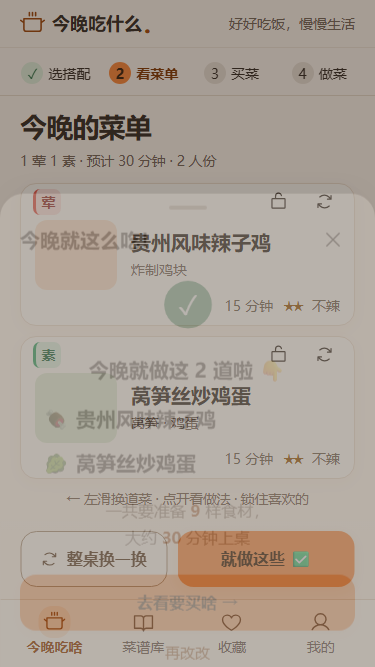
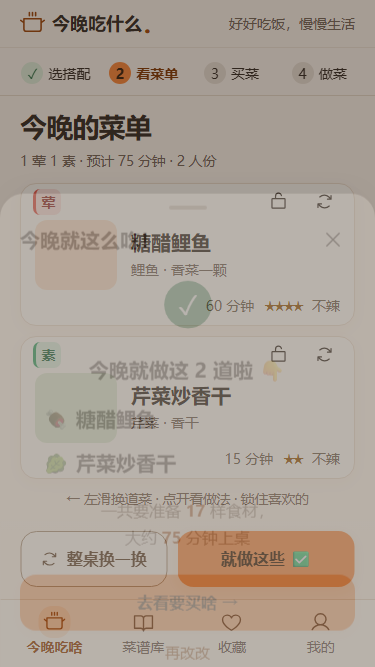
docs: record live deployment and acceptance evidence

diff --git a/docs/ACCEPTANCE.md b/docs/ACCEPTANCE.md
@@ -11,7 +11,7 @@
 | 同桌不重菜、主料多样、遵守忌口 | 通过。200 次随机四道菜单验证无重复菜、无主料冲突、忌口/辣度/黑名单生效；单独验证候选不足和放宽顺序。 |
 | 老乡鸡家庭份量与出处 | 通过。69 道补充库菜谱逐道验证 2 人份、主料合计 250–400g、克数为 5 的倍数。保留原名及供应商、原文链接和单独的家庭替代建议。 |
 | 荤素各至少 30 道真实菜 | 通过。164 道荤菜、92 道素菜；只来自指定两个仓库。134 个未可靠解析或非配菜条目记录跳过原因。 |
-| 无登录打开、添加桌面、离线 | 本地生产包通过。验证 manifest、192/512 图标、standalone 模式、service worker 控制和离线刷新后读取完整菜谱与今日菜单。实际部署状态见 README 的在线地址；手机添加桌面需使用浏览器系统菜单。 |
+| 无登录打开、添加桌面、离线 | 本地与 GitHub Pages 线上生产包通过。验证免登录访问、manifest、192/512 图标、standalone 模式、service worker 控制和离线刷新后读取完整菜谱与今日菜单。手机添加桌面需使用浏览器系统菜单。 |
 
 ## 执行命令
 
@@ -23,6 +23,8 @@ node scripts/check-production.mjs
 ```
 
 规则测试 7 项通过；浏览器端到端测试 4 项通过。生产包额外验证横屏、桌面 480px 限宽、减少动态效果和离线缓存。
+
+线上地址：[https://javaarthur.github.io/c-foods/](https://javaarthur.github.io/c-foods/)。GitHub Actions 已完成安装、测试、构建及部署，线上返回 HTTP 200。对该地址再次执行生产包检查，离线和布局验证通过。生产依赖 `npm audit --omit=dev` 结果为 0 个已知漏洞。
 
 ## 实际页面
 

diff --git a/README.md b/README.md
@@ -2,6 +2,8 @@
 
 给忙碌的家人准备一桌热乎饭：选搭配 → 看菜单 → 买菜 → 做菜。全站简体中文，手机优先，个人数据只存本机，不需要注册或登录。
 
+**在线体验：[今晚吃什么](https://javaarthur.github.io/c-foods/)** · **[GitHub 仓库](https://github.com/JavaArthur/c-foods)**
+
 **技术栈：** Vue 3 Composition API、Vite、Tailwind CSS 4、vue-router hash 路由。没有后端或数据库，没有付费接口。
 
 ## 本地运行
@@ -126,6 +128,8 @@ HowToCook 仅收录 `dishes/meat_dish`、`dishes/aquatic`、`dishes/vegetable_di
 3. 访问 `https://<用户名>.github.io/<仓库名>/`。
 
 工作流自动设置 `BASE_PATH=/<仓库名>/`。hash 路由的地址形如 `/#/recipes`，刷新不会走服务器子路径，也不会 404。使用根域、自定义域或 `<用户名>.github.io` 仓库时，把工作流的 `BASE_PATH` 改为 `/`。
+
+本项目已部署到 **https://javaarthur.github.io/c-foods/**，可直接打开体验。Cloudflare Pages 尚未连接，按上面的首选方案连接此仓库即可部署到自己的 Cloudflare 账户。
 
 ## 添加到手机桌面
 
